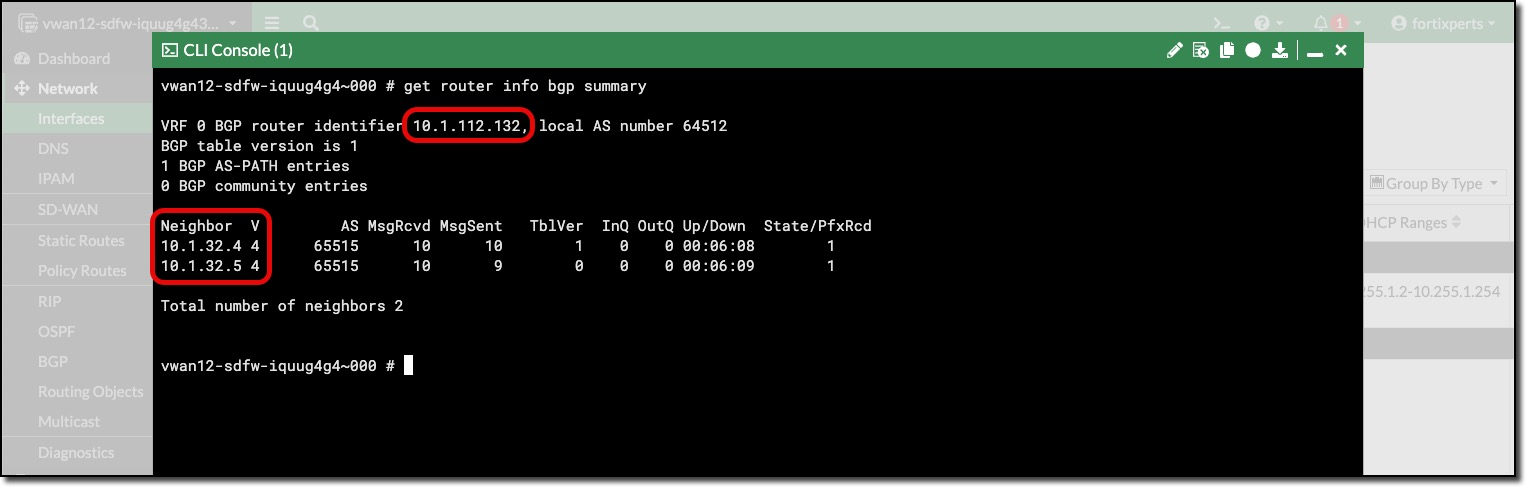
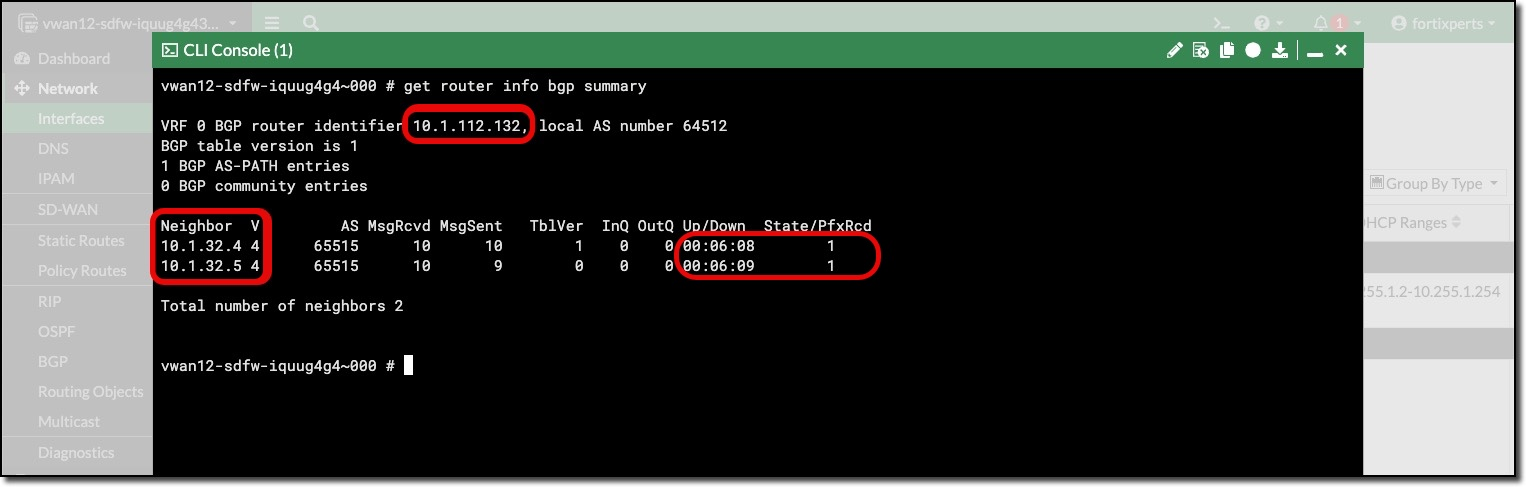
doc updates

diff --git a/content/Chapter02/Task3.md b/content/Chapter02/Task3.md
@@ -12,12 +12,22 @@ FortiGates in the VWAN Hub use BGP for routing, configure BGP on the FortiGates
 
 1. ***Confirm*** Private address space of the vWAN hub
 
-    The private address space of the vWAN hub is needed to create a summary route from the private address range to the secondary interfaces of the FortiGate NVAs to establish BGP peering. The BGP peers are already configured and ready to go online after the route is enabled.
+    The private address space of the vWAN hub is needed to create a summary route from the private address range to the secondary interfaces of the FortiGate NVAs to establish BGP peering.
+
+    The FortiGates are deployed with BGP peers already configured and ready to go online after the static route is enabled.
 
     - ***Navigate*** to your Hub **vwanXX-eastus_VWAN**
     - ***View*** Hub Address space
 
         ![bgp1](../images/bgp1.jpg)
+
+1. View FortiGate BGP Peer status
+
+    - ***Open*** each FortiGate in a browser tab/window
+    - **Open** FortiGate CLI
+    - **Run** CLI command `get router info bgp summary` to view BGP Peer status
+
+        ![bgp0](../images/bgp0.jpg)
 
 1. ***Determine*** FortiGate NVA port2 Gateway
 
@@ -25,16 +35,15 @@ FortiGates in the VWAN Hub use BGP for routing, configure BGP on the FortiGates
 
     Every subnet in Azure uses the first address in the subnet as the gateway. For example, in the subnet 10.1.1.0/24 Azure uses 10.1.1.1 as the subnet gateway.
 
-    - ***Open*** each FortiGate in a browser tab/window
     - ***Click*** on Network
     - ***Click*** on Interfaces
     - ***View*** the assigned address of port2 and determine the gateway
 
-    In the following example, the first IP of the subnet is 10.1.112.1.
+    In the screenshot below the port2 IP address is 10.1.112.5/255.255.255.128 (/25)
+    - Network address is **10.1.112.0**
+    - Gateway address is **10.1.112.1**
 
-    In the screenshot below the port2 IP address is 10.1.112.5/255.255.255.128 or a /25 mask, which makes the network address 10.1.112.0 and the first IP, which Azure assigns as the gateway, is 10.1.112.1
-
-    ![bgp2](../images/bgp2.jpg)
+        ![bgp2](../images/bgp2.jpg)
 
 1. ***Configure*** Static Routes on each FortiGate
 
@@ -49,12 +58,20 @@ FortiGates in the VWAN Hub use BGP for routing, configure BGP on the FortiGates
 
         ![bgp3](../images/bgp3.jpg)
 
+1. Create a static route
+
     - ***Enter*** Destination - `10.1.0.0/16`
     - ***Enter*** Gateway Address - `10.1.112.1`
     - ***Select*** Interface - **port2**
     - ***Click*** "OK"
 
-    Repeat the process to add a static route for the load balancer probe
+        ![bgp4](../images/bgp4.jpg)
+
+1. Repeat the process to add a static route for the Azure Internal Load Balancer Health Probe
+
+    Refer to the overall [deployment diagram](../images/networkdiagram.png) for the Internal Load Balancer placement. Health Probes enable the Azure Load Balance to know if a FortiGate is in a state to forward traffic.
+
+    The static route Destination below is the default Azure Load Balancer Health Probe destination.
 
     - ***Enter*** Destination - `168.63.129.16/32`
     - ***Enter*** Gateway Address - `10.1.112.1`
@@ -64,15 +81,15 @@ FortiGates in the VWAN Hub use BGP for routing, configure BGP on the FortiGates
 
 1. ***Repeat*** the commands on the other FortiGate
 
-    ![bgp4](../images/bgp4.jpg)
+    When completed the static routes of each FortiGate should look similar to the screenshot below.
+
     ![bgp5](../images/bgp5.jpg)
 
 1. ***Verify*** BGP communication between FortiGate NVAs
 
-    After configuring the static routes on both FortiGates BGP peering is automatically enabled.
+    After configuring the static routes on both FortiGates BGP peers are reachable.
 
     - ***Verify*** BGP communication between FortiGate NVAs in the CLI.
-
     - **Open** FortiGate CLI
     - **Run** CLI command `get router info bgp summary`
 
@@ -86,12 +103,12 @@ Routing Intent and Routing Policies allow you to configure the Virtual WAN hub t
 
 1. ***Enable*** Routing Intent
 
-    - ***Navigate*** to your Hub - vwanXX-vHub1_eastus
-    - ***Click*** "Routing Intent" and Routing Policies
-    - ***Select*** for "Internet traffic" - Network Virtual Appliance
-    - ***Select*** for "Private traffic" - Network Virtual Appliance
-    - ***Select*** for **both** "Next Hop Resources" - your cluster name (the only selection in the dropdown)
-    - ***Click*** "Save" to update Routing Intent
+    - ***Navigate*** - to your Hub - vwanXX-vHub1_eastus
+    - ***Click*** - "Routing Intent and Routing Policies"
+    - ***Select*** - for "Internet traffic" - Network Virtual Appliance
+    - ***Select*** - for "Private traffic" - Network Virtual Appliance
+    - ***Select*** - for **both** "Next Hop Resources" - your cluster name (the only selection in the dropdown)
+    - ***Click*** - "Save" to update Routing Intent
 
         ![bgp7](../images/bgp7.jpg)
 

diff --git a/content/Chapter02/Task1.md b/content/Chapter02/Task1.md
@@ -24,28 +24,22 @@ After FortiGate deployment is completed the next step is to configure **FortiGat
 1. ***Configure*** FGSP
 
     1. ***Open*** a CLI session on each FortiGate
+    1. Enter the blocks of CLI commands on each FortiGate.
 
     1. On FortiGate ending with **_0** configure the peerip address with the port2 private IP address of the FortiGate ending with **_1**.
 
-        {{% notice warning %}}Replace **x.x.x.x** with the port2 private IP address of the FortiGate ending with **_1**</br>
-        Copy these CLI commands to notepad or similar tool to update the *peerip* address.{{% /notice %}}
+        {{% notice warning %}}If the IP address of **port2** on FortiGate ending**_1** is not **10.1.112.6** replace the **peerip** below with the port2 private IP address of the FortiGate ending with **_1**</br>
+        Copy these CLI commands to notepad or similar tool to update the *peerip* address, if required.{{% /notice %}}
 
         ```basic
         config system standalone-cluster
             config cluster-peer
                 edit 1
-                    set peerip x.x.x.x
+                    set peerip 10.1.112.6
                 next
             end
             set standalone-group-id 1
             set group-member-id 1
-        end
-
-        config system ha
-            set session-pickup enable
-            set session-pickup-nat enable
-            set session-pickup-connectionless enable
-            set override disable
         end
         ```
 
@@ -55,10 +49,19 @@ After FortiGate deployment is completed the next step is to configure **FortiGat
         **Please first make sure the member is isolated from FGSP cluster properly.**</br>
         **Do you want to continue? (y/n)**</br>
 
+        ```basic
+        config system ha
+            set session-pickup enable
+            set session-pickup-nat enable
+            set session-pickup-connectionless enable
+            set override disable
+        end
+        ```
+
     1. On FortiGate ending with **_1** configure the peerip address with the port2 private IP address of the FortiGate ending with **_1**.
 
-        {{% notice warning %}}Replace **x.x.x.x** with the port2 private IP address of the FortiGate ending with **_0**</br>
-        Copy these CLI commands to notepad or similar tool to update the *peerip* address.{{% /notice %}}
+        {{% notice warning %}}If the IP address of **port2** on FortiGate ending**_0** is not **10.1.112.5** replace the **peerip** below with the port2 private IP address of the FortiGate ending with **_0**</br>
+        Copy these CLI commands to notepad or similar tool to update the *peerip* address, if required.{{% /notice %}}
 
         {{% notice warning %}}Notice that the **group-member-id** is **2** in the CLI commands below{{% /notice %}}
 
@@ -66,18 +69,11 @@ After FortiGate deployment is completed the next step is to configure **FortiGat
         config system standalone-cluster
             config cluster-peer
                 edit 1
-                    set peerip x.x.x.x
+                    set peerip 10.1.112.5
                 next
             end
             set standalone-group-id 1
             set group-member-id 2
-        end
-
-        config system ha
-            set session-pickup enable
-            set session-pickup-nat enable
-            set session-pickup-connectionless enable
-            set override disable
         end
         ```
 
@@ -87,6 +83,15 @@ After FortiGate deployment is completed the next step is to configure **FortiGat
         **Please first make sure the member is isolated from FGSP cluster properly.**</br>
         **Do you want to continue? (y/n)**</br>
 
-FGSP is now configured and the FortiGates will share session information.
+        ```basic
+        config system ha
+            set session-pickup enable
+            set session-pickup-nat enable
+            set session-pickup-connectionless enable
+            set override disable
+        end
+        ```
+
+**FGSP is now configured and the FortiGates will share session information.**
 
 Continue to ***Next Task***

diff --git a/content/Chapter01/Task2.md b/content/Chapter01/Task2.md
@@ -6,7 +6,7 @@ weight: 40
 
 ## FortiGate Deployment
 
-Traditionally FortiGates associated with an Azure Virtual WAN (VWAN) were deployed in a Virtual Network (VNET) that was connected to an Azure Virtual WAN Hub. The deployment being done today has FortiGates being deployed directly into (integrated with) the VWAN hub. This type of deployment frees the administrator from having to deploy and manage Azure Virtual Machines. 
+Traditionally FortiGates associated with an Azure Virtual WAN (VWAN) were deployed in a Virtual Network (VNET) that was connected to an Azure Virtual WAN Hub. The deployment being done today has FortiGates being deployed directly into (integrated with) the VWAN hub. This type of deployment frees the administrator from having to deploy and manage Azure Virtual Machines.
 
 1. ***Click*** on VWAN **vwanXX-eastus_VWAN** in your Resource Group. **XX** is the number of your allocated environment.
 
@@ -48,18 +48,18 @@ Traditionally FortiGates associated with an Azure Virtual WAN (VWAN) were deploy
 
 1. **Basics Tab values**
 
-    - ***Select*** Resource Group - **vwanXX-training** -- **Be sure to select your Resource Group**
-    - ***Select*** Region - East US -- **Should already be defaulted to the correct region**
-    - ***Enter*** FortiGate administrative username - ```fortixperts```
-    - ***Enter***  password - ```Fortixperts2024!```
-    - ***Confirm*** password - ```Fortixperts2024!```
-    - ***Enter*** FortiGate Name Prefix - **vwanXX** -- **Be sure to enter your allocated environment number for XX.**
-    - ***Select*** FortiGate License Type - "Pay As you Go (PAYG)"
-    - ***Select*** FortiGate Image Version - "7.4.X" -- **Be sure to select the highest 7.4 version.**
-    - ***Select*** Azure vWan deployment type - "SDWAN + NGFW (Hybrid)"
-    - ***Enter*** Application Name - vwanXX -- **Be sure to enter your allocated environment number for XX.**
-    - ***Update*** Managed Resource Group - Append "_vwanXX" to the provided name -- **Be sure to enter your allocated environment number for XX.**
-    - ***Click*** "Next"
+    - ***Select*** - Resource Group - **vwanXX-training** -- *Be sure to select your Resource Group*
+    - ***Select*** - Region - **East US** -- *Should already be defaulted to the correct region*
+    - ***Enter*** - FortiGate administrative username - ```fortixperts```
+    - ***Enter*** - password - ```Fortixperts2024!```
+    - ***Confirm*** - password - ```Fortixperts2024!```
+    - ***Enter*** - FortiGate Name Prefix - **vwanXX** -- *Be sure to enter your allocated environment number for XX.*
+    - ***Select*** - FortiGate License Type - "**Pay As you Go (PAYG)**"
+    - ***Select*** - FortiGate Image Version - "**7.4.X**" -- *Be sure to select the highest 7.4 version.*
+    - ***Select*** - Azure vWan deployment type - "**SDWAN + NGFW (Hybrid)**"
+    - ***Enter*** - Application Name - **vwanXX** -- *Be sure to enter your allocated environment number for XX.*
+    - ***Update*** - Managed Resource Group - Append "**_vwanXX**" to the provided name -- *Be sure to enter your allocated environment number for XX.*
+    - ***Click*** - "**Next**"
 
         ![vwan6](../images/vwan6.jpg)
 

diff --git a/content/Chapter03/Task1.md b/content/Chapter03/Task1.md
@@ -14,6 +14,19 @@ At this point
 
 Can traffic pass from one spoke to another? Ping is commonly used to test connectivity between devices.
 
+1. ***Disable*** Probe Response on each FortiGate's port1 interface
+
+    Both interfaces on the FortiGate may have **Probe Response** configured to respond to the Azure Internal Load Balancer Health Probes. This can cause traffic to take an unexpected path to the FortiGate. Ensure only the FortiGate interface that is expecting Spoke VNET traffic is responding to Load Balancer Heath Probes.
+
+    - ***Navigate*** to Network -> Interfaces
+    - ***Double-Click*** port1
+    - ***Uncheck*** Probe Response
+    - ***Click*** "OK"
+
+        ![proberesponse1](../images/proberesponse1.jpg)
+
+        ![proberesponse2](../images/proberesponse2.jpg)
+
 ### Spoke to Spoke traffic
 
 1. ***Ping*** between Linux Spoke VMs.

diff --git a/content/Chapter03/_index.md b/content/Chapter03/_index.md
@@ -19,7 +19,7 @@ At this point
 - Can response traffic from the Internet get back to the Spokes?
 
 {{% notice info %}}
-Commonly used tools ***ping*** and **curl** will help determine availability and reachability of devices and services.
+Commonly used tools **ping** and **curl** will help determine availability and reachability of devices and services.
 
 Additionally packet sniffing in the FortGate CLI will help determine if traffic is reaching the FortiGates for inspections and forwarding to the appropriate destination.
 {{% /notice %}}

diff --git a/content/Chapter02/Task4.md b/content/Chapter02/Task4.md
@@ -6,7 +6,11 @@ weight: 50
 
 ## VNETs & Verification
 
-FortiGates are ready to inspect network traffic. Network traffic is coming from or going to workloads in the Spoke VNETs. In order for the FortiGates to managed the traffic the Spoke VNETs must be peered to the VWAN Hub.
+FortiGates are ready to inspect network traffic.
+
+Network traffic will be coming from or going to workloads in the Spoke VNETs.
+
+In order for the FortiGates to manage the traffic, the Spoke VNETs must be peered to the VWAN Hub.
 
 ### Peer Spoke VNETS to Hub
 

diff --git a/content/Chapter01/Task1.md b/content/Chapter01/Task1.md
@@ -29,6 +29,8 @@ The work for this session takes place in Azure and on FortiGates deployed into t
 
 1. ***Click*** your Resource Group named *vwanXX-training*. **XX** is the number of your allocated environment.
 
+    {{% notice tip %}}In an Azure environment there can be many Resource Groups, use the search field to find your Resource Group.{{% /notice %}}
+
     ![portallogin4](../images/portallogin4.png)
 
 1. ***View*** the already deployed resources already deployed
